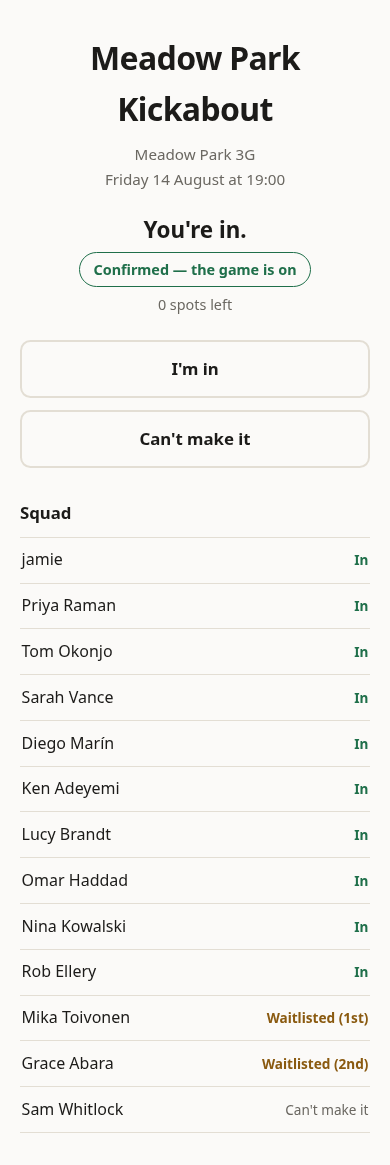
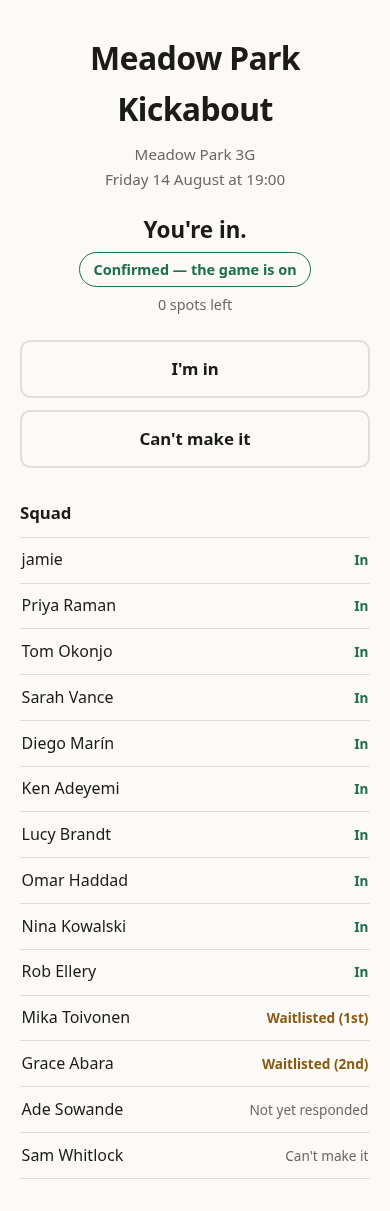
docs(guide): two taps, a squad of fourteen, and no date the clock can contradict
Three files told players their answer was saved when it was not. "Tapping
either button is the whole thing" and "Your answer is already saved — this
page is confirming it, not asking again" describe a product this is not:
`GET /r/:token` renders, `?intent=` only emphasises a button, and the POST
from that page is the sole thing that records. A player who read this would
tap **I'm in**, believe they were done, close the page, and never be counted.
README, chapter 03 and chapter 04 now describe both taps — the email opens the
page, the tap on the page saves the answer — without explaining mail scanners
to an organiser.

Chapter 03 is rewritten around the three states in order: arriving from the
email (the new `respond-pending` shot — "Can you make it?", two untapped
buttons), the confirming tap, and the confirmed page. That fixture is already
full, so the arrival section names the 0 spots left and hands off to the
waitlist section rather than promising a place the next tap would not give.

Chapter 07 had the same error inverted: the dashboard's buttons post straight
to the dashboard, so a card is one tap, not "exactly as they do in the email".

Chapter 03 also claimed the reminder email lists who is already in. It renders
a count and never a roster.

Every "thirteen"/"(13)" is now fourteen, following the new squad member.

Five chapters named a date or a weekday — "Friday 14 August", "every Friday at
[…]

Changed region(s): [[0.0308, 0.0309, 0.9538, 0.9579], [0.6462, 0.4635, 0.9538, 0.9579]]

diff --git a/docs/guide/03-answering-a-reminder.md b/docs/guide/03-answering-a-reminder.md
@@ -1,26 +1,48 @@
 # Answering a reminder
 
 The day before a game, everyone in the squad gets one email. It says when and
-where, who is already in, and how many places are left. It has two buttons.
+where, how many people are already in, and how many places are left. It has
+two buttons.
 
-You do not need an account, a password, or the app open. Tapping either button
-is the whole thing.
+You do not need an account, a password, or the app open. It takes two taps: one
+in the email, which opens the page below, and one on that page, which saves
+your answer.
 
-![The fixture page, showing a player who is in](images/respond-in.png)
+## Arriving from the email
 
-Tapping **I'm in** takes you here. Your answer is already saved — this page is
-confirming it, not asking again. The squad below shows who else is coming, and
-you can change your mind by tapping the other button any time before kickoff.
+![The fixture page before you have answered, asking Can you make it? above two buttons](images/respond-pending.png)
 
-**Confirmed — the game is on** means enough people have said yes for the game
-to go ahead. Beside it, **0 spots left** is how many places are still free.
+Tapping either button in the email brings you here, and nothing has been
+recorded yet: the page asks **Can you make it?** and waits for you.
+
+**Confirmed — the game is on** means enough people have already said yes for
+the game to go ahead. Beside it, **0 spots left** is how many places are still
+free — none, in this one, which is what the waitlist below is about. The squad
+list shows who has answered what, so you can see who you'd be playing with
+before you decide.
+
+## Saying you're in
+
+![The same page after tapping I'm in, now saying You're in](images/respond-in.png)
+
+Tapping a button on this page is what records your answer. Tap **I'm in**
+while there is a place free and the page comes back saying **You're in.**,
+with your name marked **In** in the squad below.
+
+That headline is how you know it worked. Close the page without tapping a
+button on it and nothing has been saved — you are not counted, and the place
+is still free for somebody else.
+
+Both buttons stay on the page afterwards, so you can change your mind by
+tapping the other one any time before kickoff.
 
 ## When it is already full
 
 ![A player told they are second on the waitlist](images/respond-waitlisted.png)
 
-The Meadow Park Kickabout has room for ten. If you answer after the tenth person,
-you go on the waitlist and the page tells you your position — here, second.
+The Meadow Park Kickabout has room for ten. If you tap **I'm in** after the
+tenth person has, you go on the waitlist instead and the page tells you your
+position — here, second.
 
 You do not need to do anything else. If someone drops out, the person at the
 top of the waitlist is moved in automatically and emailed. Nobody else is
@@ -28,6 +50,7 @@ told.
 
 The squad list shows the same thing from the outside: ten players marked **In**,
 then Mika Toivonen first on the waitlist and Grace Abara second, in the order
-they answered.
+they answered. Anyone who has not answered yet — Ade Sowande here — shows as
+**Not yet responded**.
 
 Next: [when someone drops out](04-when-someone-drops-out.md).

diff --git a/docs/guide/README.md b/docs/guide/README.md
@@ -5,8 +5,10 @@ Make The Team runs the weekly kickabout so you don't have to.
 You set the game up once — where you play, which evening, what time, and how
 many players you need. From then on the fixtures appear by themselves, week
 after week. The day before each one, everyone in the squad gets a single email
-asking whether they're playing. They tap **I'm in** or **Can't make it**, and
-that's it: no account, no password, no app to install.
+asking whether they're playing. Tapping **I'm in** or **Can't make it** in the
+email opens a page with the same two buttons, and the tap there is the one
+that saves the answer. Two taps, and that's it: no account, no password, no
+app to install.
 
 If more people say yes than there are places, the extras go on a waitlist in
 the order they answered. If somebody drops out, the person at the top of the
@@ -19,8 +21,9 @@ This guide walks through it in the order you'll meet it.
    weekly fixture.
 2. [Inviting your squad](02-inviting-your-squad.md) — the link, the QR code,
    and what a player sees when they follow it.
-3. [Answering a reminder](03-answering-a-reminder.md) — what happens when a
-   player taps a button in the email, including the waitlist.
+3. [Answering a reminder](03-answering-a-reminder.md) — what a player does with
+   the email, from the tap in the inbox to the answer being saved, including
+   the waitlist.
 4. [When someone drops out](04-when-someone-drops-out.md) — changing your
    answer, and how the waitlist moves.
 5. [Running your squad](05-running-your-squad.md) — organisers, removing

diff --git a/docs/guide/01-setting-up-a-game.md b/docs/guide/01-setting-up-a-game.md
@@ -38,7 +38,7 @@ Tap **Create the game** and it exists.
 
 ## Your game
 
-![The game page, showing the invite link, a QR code, a squad of thirteen and the fixtures coming up](images/game-overview.png)
+![The game page, showing the invite link, a QR code, a squad of fourteen and the fixtures coming up](images/game-overview.png)
 
 This page is the game's home, and it's where you'll come back to.
 
@@ -46,14 +46,14 @@ At the top is the name, the pitch and the address, with **Edit this game** for
 when any of that changes. Under **Invite people** is the link to share and the
 same link as a QR code — that's chapter 2.
 
-**Squad (13)** lists everyone who has joined. This game has thirteen people in
+**Squad (14)** lists everyone who has joined. This game has fourteen people in
 it, with jamie marked as the organiser — that's you, because you set it up.
 Chapter 5 covers what the buttons beside each name do.
 
 **Coming up** is the part that does the work. You created the game once, and
-the fixtures are already there: Friday 14 August, then the 21st, the 28th, and
-on into September, all at 19:00. The first one is open and has ten people in;
-the later ones show nobody yet, because their reminders haven't gone out.
-The list keeps refilling itself as weeks go by.
+the fixtures for the next few weeks are already there, one a week at 19:00.
+The first one is open and has ten people in; the later ones show nobody yet,
+because their reminders haven't gone out. The list keeps refilling itself as
+weeks go by.
 
 Next: [inviting your squad](02-inviting-your-squad.md).

diff --git a/docs/guide/05-running-your-squad.md b/docs/guide/05-running-your-squad.md
@@ -16,8 +16,10 @@ away and don't want the game to depend on you having signal.
 
 Your own row is the one at the top, marked **organiser (you)**. It offers
 **Make an ordinary member** instead — that's how you step back from organising
-without leaving the squad. Do keep at least one organiser, or nobody can change
-anything.
+without leaving the squad. A game always has at least one organiser: if you are
+the only one, the app refuses to make you an ordinary member, so you cannot
+leave the game with nobody able to change anything. Make someone else an
+organiser first, and then you can step back.
 
 ## Taking someone out
 
@@ -41,8 +43,8 @@ put them back yourself.
 
 **Edit this game** at the top of the game page opens the same form you filled in
 at the start, already holding what the game uses now: Meadow Park Kickabout,
-Meadow Park 3G, 14 Meadow Lane, every Friday at 19:00 for sixty minutes, 8 to
-10 players, preferring even numbers.
+Meadow Park 3G, 14 Meadow Lane, its day of the week, 19:00 for sixty minutes,
+8 to 10 players, preferring even numbers.
 
 Read the note at the top before you change anything. Here it says the change
 will update four scheduled fixtures, and that one fixture people have already

diff --git a/docs/guide/07-your-own-fixtures.md b/docs/guide/07-your-own-fixtures.md
@@ -12,13 +12,15 @@ in one place.
 Signing in shows your fixtures as cards, nearest first.
 
 Each card carries the same facts as the email: the Meadow Park Kickabout,
-Meadow Park 3G, Friday 14 August at 19:00. **Confirmed — the game is on**
-means enough people have said yes. **0 spots left** means the places are taken.
-**You're in** is your own answer.
+Meadow Park 3G, the date and 19:00. **Confirmed — the game is on** means enough
+people have said yes. **0 spots left** means the places are taken. **You're
+in** is your own answer.
 
-The two buttons work exactly as they do in the email, and you can use them
-whether or not you've answered already: **I'm in** and **Can't make it**.
-Changing your mind here is the same as changing it there.
+**I'm in** and **Can't make it** sit on the card, and you can use them whether
+or not you've answered already. There's no email in the way here, so it's one
+tap rather than two: tapping a button on the card saves your answer there and
+then. It's the same answer, recorded the same way, as tapping one on the page
+in chapter 3.
 
 ## Signing in faster
 

diff --git a/docs/guide/06-calling-a-fixture-off.md b/docs/guide/06-calling-a-fixture-off.md
@@ -11,10 +11,10 @@ you confirm.
 ![The cancellation page, with a box for the reason everyone will be told](images/cancel.png)
 
 The top of the page is a headcount before you commit: the Meadow Park
-Kickabout at Meadow Park 3G, Friday 14 August at 19:00, ten players in, and
-twelve people who will be emailed to say it's off. That second number is larger
-than the first because it includes the people on the waitlist, who were also
-expecting to hear.
+Kickabout at Meadow Park 3G, the date of the fixture you're calling off at
+19:00, ten players in, and twelve people who will be emailed to say it's off.
+That second number is larger than the first because it includes the people on
+the waitlist, who were also expecting to hear.
 
 **Why is it off?** is optional and goes straight into the email everyone gets.
 A few words save a dozen replies — "Pitch flooded" is plenty. Leave it blank if

diff --git a/docs/guide/04-when-someone-drops-out.md b/docs/guide/04-when-someone-drops-out.md
@@ -9,8 +9,9 @@ messages, and here it costs nobody anything.
 ![The fixture page for a player who has said they can't make it](images/respond-out.png)
 
 Both buttons stay on the page after you've answered, so changing your mind is
-the same action as answering in the first place: open the email again — or the
-page you're already looking at — and tap **Can't make it**.
+the same action as answering in the first place: go back to the page — from the
+email again, or from the tab you still have open — and tap **Can't make it**
+there.
 
 The page then says **You said you can't make it**, and the squad below updates.
 Sam Whitlock has answered that way here, and the answer sits beside that name

diff --git a/docs/guide/02-inviting-your-squad.md b/docs/guide/02-inviting-your-squad.md
@@ -30,8 +30,8 @@ This is where the link takes them. They don't have to sign up for anything to
 get here.
 
 The top of the page tells them what they're joining: the Meadow Park Kickabout,
-played at Meadow Park 3G every Friday at 19:00 for sixty minutes, 8 to 10
-players, and when the next one is. Below that, **Who's playing (13)** shows the
+played at Meadow Park 3G every week at 19:00 for sixty minutes, 8 to 10
+players, and when the next one is. Below that, **Who's playing (14)** shows the
 squad they'd be joining — first names and an initial, so nobody's full name is on a page
 anyone with the link can open.
 
